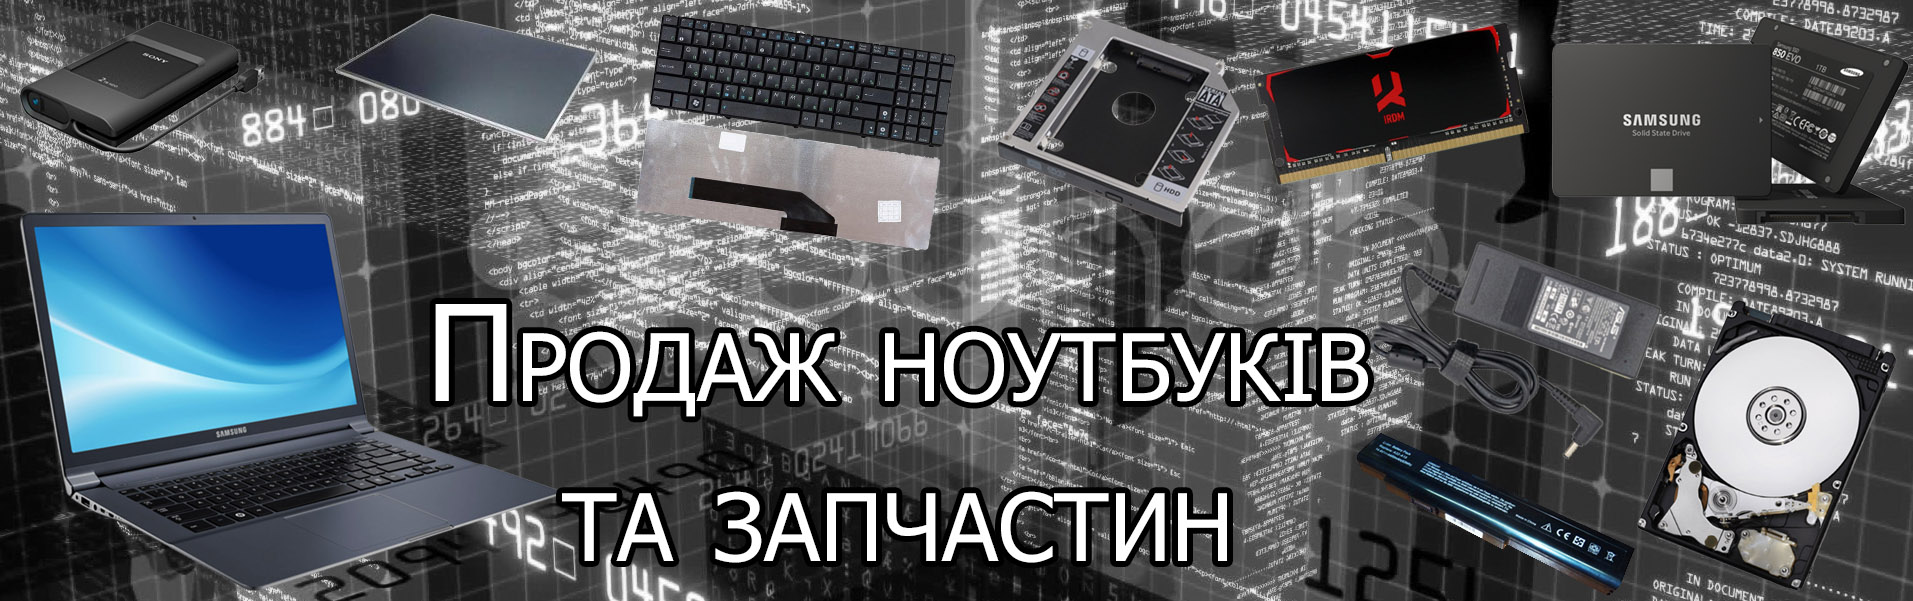
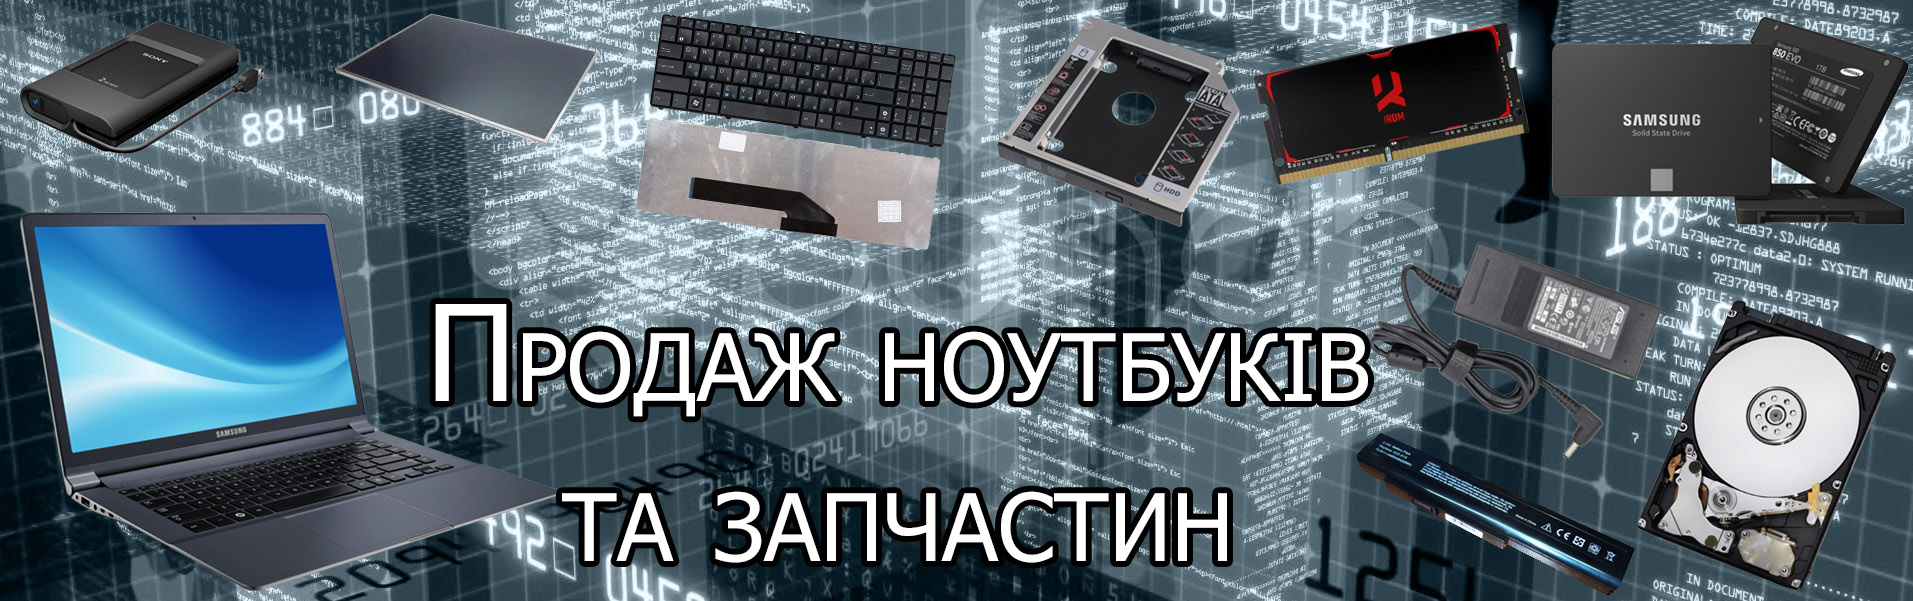
new design
new design

diff --git a/index.html b/index.html
@@ -11,6 +11,7 @@
 </head>
 
 <body>
+    <!--273b45--> 
     <header>
         <table class="table">
             <tr>
@@ -29,10 +30,10 @@
 
     <main>
         <br>
+        <hr>
         <div id="slider">
 
         </div>
-        <br>
         <hr>
         <table align="center">
             <tr>

diff --git a/MCstyle.css b/MCstyle.css
@@ -1,5 +1,5 @@
 body {
-    background-image: url(image/background0.jpg);
+    background-image: url(image/background1.jpg);
     background-size: 100%;
     margin: 0px;
 }
